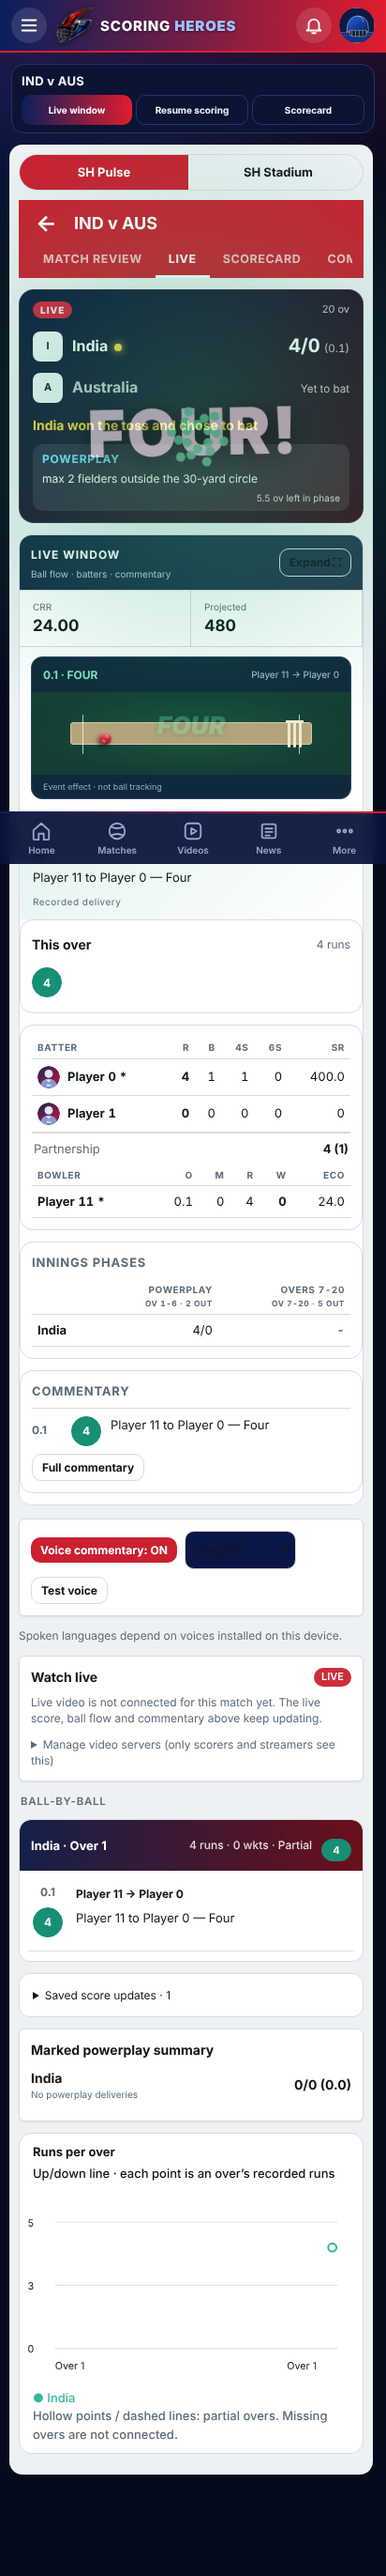
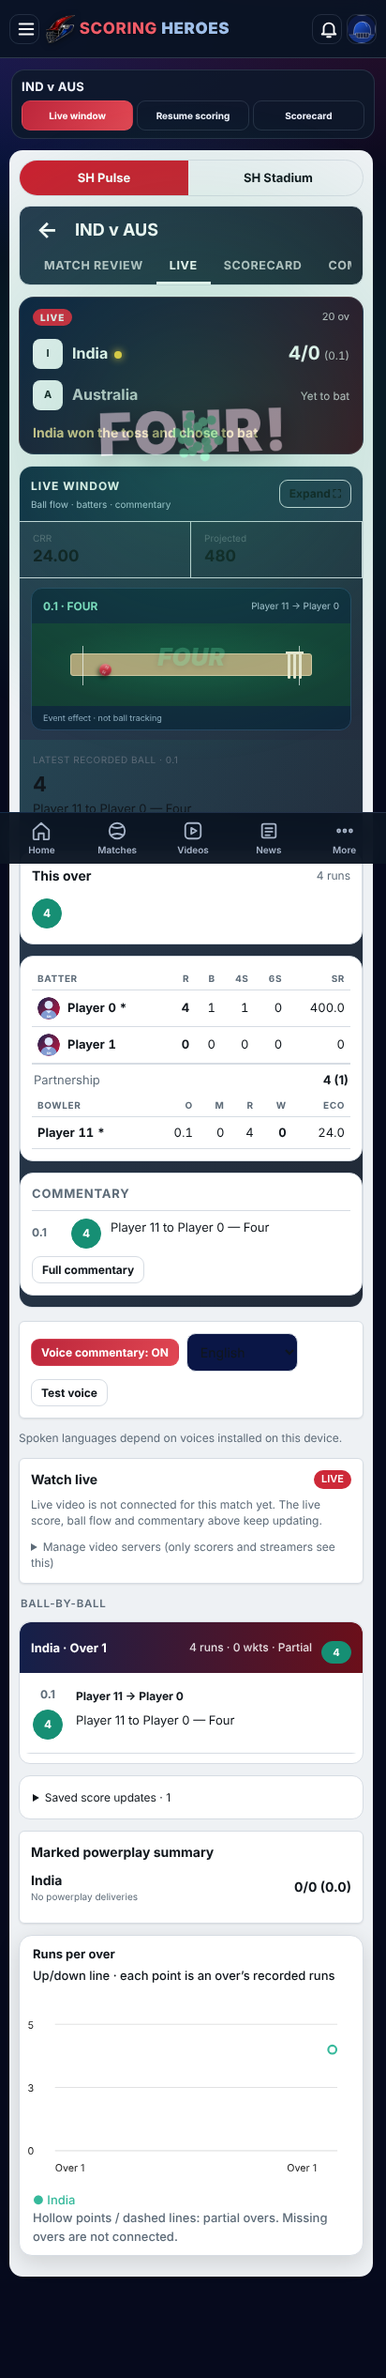
Live view fallback: at-the-crease, last wicket and bowling cards from scorecard when provider sends no deliveries
Claude-Session: https://claude.ai/code/session_01HkCoKwManx1f4X4815YDSv

diff --git a/app-index.html b/app-index.html
@@ -6503,6 +6503,19 @@ function st2News(c,W,H,u,U,f,head,gold,wrap0,fit,ctr){
 /* poster from any news item */
 function newsPosterOpen(title,src){Object.assign(UI.st2,{tpl:'news',f:{title:String(src||'Scoring Heroes News').slice(0,50),l1:String(title||'').slice(0,160),l2:'',note:new Date().toLocaleDateString('en-GB',{day:'numeric',month:'short',year:'numeric'}),_k:'news|'},photo:'',_pi:null,capEdit:0});UI.view='social';render()}
 A.newsPoster=function(d){const L=UI.nwList||[],x=L[+d.i];if(x)newsPosterOpen(x.t,x.s)};
+/* ---------------- LIVE VIEW from the scorecard when the provider sends no deliveries: batters at the crease, last wicket, bowling figures ---------------- */
+function shCreaseCard(W){
+ const L=(W&&W.sc&&W.sc.scorecard)||[];if(!L.length||(W.m&&W.m.ended&&false))return '';const inn=L[L.length-1];if(!inn)return '';
+ const dis=r=>String(r['dismissal-text']??r.dismissal??'').trim().toLowerCase(),bats=(inn.batting||[]).filter(r=>r.batsman&&r.batsman.name);
+ const at=bats.filter(r=>/^(batting|not out)$/.test(dis(r))&&!(W.m&&W.m.ended&&!/not out/.test(dis(r)))),out=bats.filter(r=>dis(r)&&!/^(batting|not out|did not bat|yet to bat)$/.test(dis(r)));
+ const bowl=(inn.bowling||[]).filter(r=>r.bowler&&r.bowler.name),fow=Array.isArray(inn.fow)?inn.fow:[],lw=out.length?out[out.length-1]:null;
+ if(!at.length&&!bowl.length)return '';
+ const row=r=>`<div class="cbp-kv"><span>${esc(r.batsman.name)}<br><small>${esc(r['4s']||0)}x4 ${esc(r['6s']||0)}x6${r.sr!=null&&r.sr!==''?' · SR '+esc(r.sr):''}</small></span><b>${esc(r.r)} <small>(${esc(r.b)})</small></b></div>`;
+ return `<div class="cbp-lb">At the crease · latest scorecard</div><div class="cbp-cd">${at.length?at.slice(0,2).map(row).join(''):'<div class="cbp-note">No batter is marked at the crease in the latest scorecard.</div>'}
+  ${lw?`<div class="cbp-kv"><span>Last wicket<br><small>${esc(lw.batsman.name)} ${esc(lw['dismissal-text']??lw.dismissal)}</small></span><b>${esc(lw.r)} <small>(${esc(lw.b)})</small></b></div>`:''}</div>
+  ${bowl.length?`<div class="cbp-lb">Bowling · latest scorecard</div><div class="cbp-cd">${bowl.map(r=>`<div class="cbp-kv"><span>${esc(r.bowler.name)}<br><small>${esc(r.o)} ov · ${esc(r.m||0)} maidens${r.eco!=null&&r.eco!==''?' · econ '+esc(r.eco):''}</small></span><b>${esc(r.w)}/${esc(r.r)}</b></div>`).join('')}</div>`:''}
+  <div class="mu sm" style="padding:0 4px 10px">Taken from the latest scorecard the provider sent. This match has no ball-by-ball feed, so individual deliveries and commentary cannot be shown.</div>`}
+shPulsePanel=(o=>function(W){const h=o(W);let extra='';try{const hasBalls=typeof shAvailableBalls==='function'&&shAvailableBalls(W).length>0;if(!hasBalls)extra=shCreaseCard(W)}catch(e){}return h+extra})(shPulsePanel);
 /* ---------------- 6/7 BOOT (overlay refresh + start) ---------------- */
 window.addEventListener('hashchange',()=>location.reload());
 window.addEventListener('storage',e=>{if(e.key===LS&&location.hash==='#overlay'){S=load();render()}});
